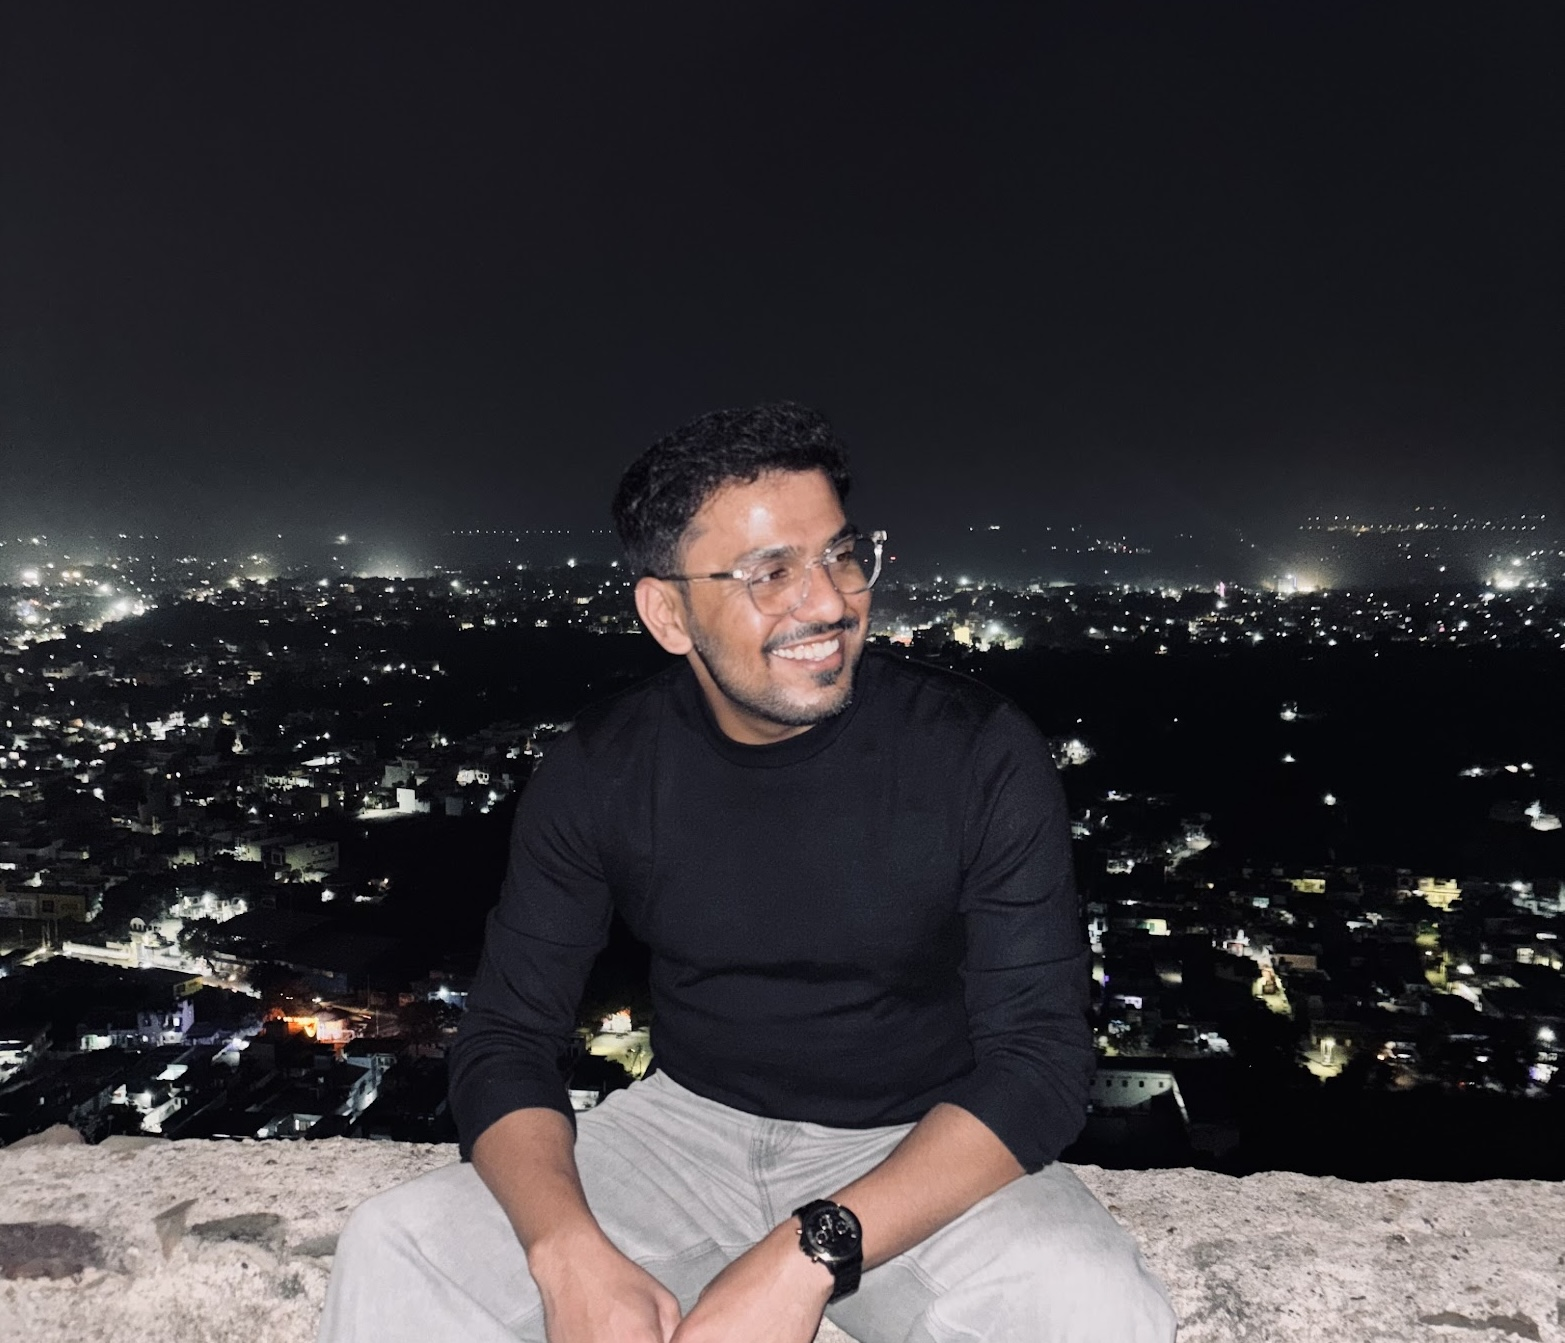
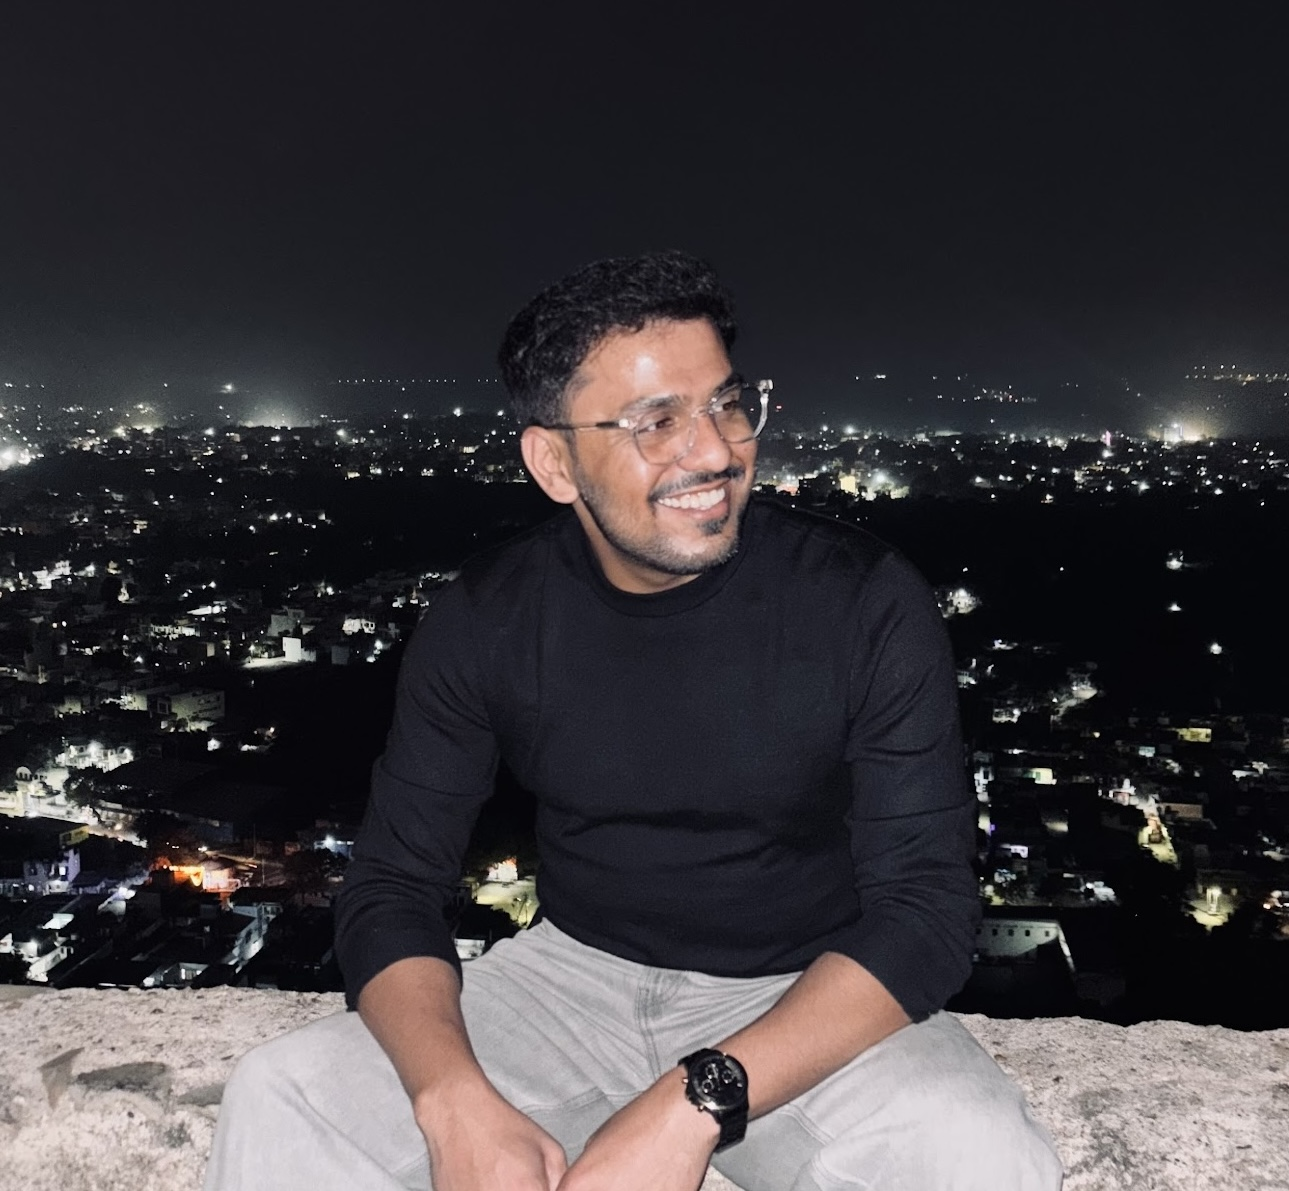
Update meta description and OG image
- Revise site description to be more detailed and mention Golang
- Update OG image asset

Changed region(s): [[0.0, 0.2485, 1.0, 1.0], [0.4965, 0.6835, 0.5275, 0.7145]]

diff --git a/src/app/layout.tsx b/src/app/layout.tsx
@@ -8,11 +8,11 @@ export const metadata: Metadata = {
   metadataBase: new URL('https://sagarsehwag.github.io'),
   title: 'Sagar Sehwag - Frontend Engineer',
   description:
-    'Frontend Engineer (5+ years) specializing in scalable web applications using React, TypeScript with a strong commitment to long-term engineering quality.',
+    'A Software Engineer specializing in the development of scalable web applications using React, TypeScript, and a strong commitment to long term engineering quality. I enjoy experimenting with Golang as well.',
   openGraph: {
     title: 'Sagar Sehwag - Frontend Engineer',
     description:
-      'Frontend Engineer (5+ years) specializing in scalable web applications using React, TypeScript with a strong commitment to long-term engineering quality.',
+      'A Software Engineer specializing in the development of scalable web applications using React, TypeScript, and a strong commitment to long term engineering quality. I enjoy experimenting with Golang as well.',
     images: [
       {
         url: '/og-image.png',
@@ -27,7 +27,7 @@ export const metadata: Metadata = {
     card: 'summary_large_image',
     title: 'Sagar Sehwag - Frontend Engineer',
     description:
-      'Frontend Engineer (5+ years) specializing in scalable web applications using React, TypeScript with a strong commitment to long-term engineering quality.',
+      'A Software Engineer specializing in the development of scalable web applications using React, TypeScript, and a strong commitment to long term engineering quality. I enjoy experimenting with Golang as well.',
     images: ['/og-image.png'],
   },
 };
